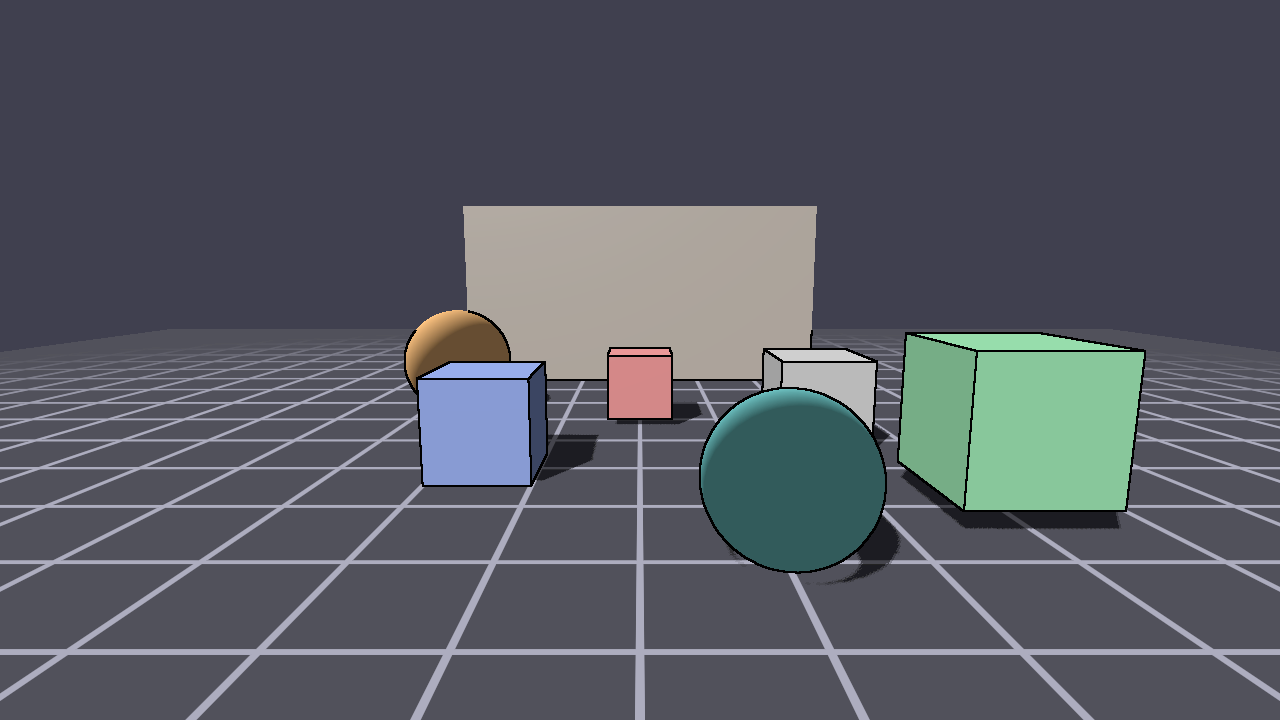
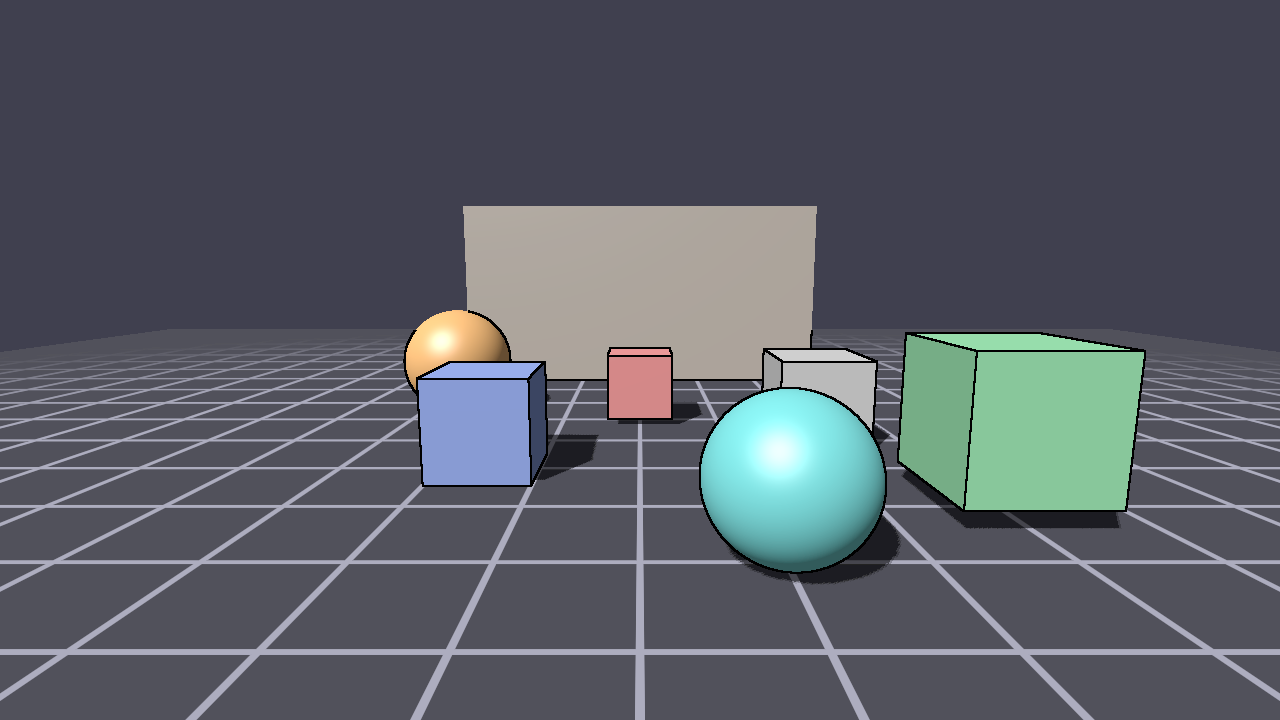
Fix Lesson 36 post-merge issues: screenshot, diagram, What's next (#195)
- Recapture screenshot after sphere shadow fix (no more holes)
- Move "wall" label above the wall in xray_depth_fail diagram to
  avoid overlapping other annotations
- Update "What's next" section: L37 is 3D Picking, not portal rendering

Files changed:
- lessons/gpu/36-edge-detection/README.md — fix What's next for L37
- lessons/gpu/36-edge-detection/assets/screenshot.png — fresh capture
- lessons/gpu/36-edge-detection/assets/xray_depth_fail.png — wall label fix
- scripts/forge_diagrams/gpu_diagrams.py — wall text y-position

Changed region(s): [[0.5312, 0.5194, 0.7188, 0.825], [0.3125, 0.4278, 0.4062, 0.55]]

diff --git a/scripts/forge_diagrams/gpu_diagrams.py b/scripts/forge_diagrams/gpu_diagrams.py
@@ -19450,7 +19450,7 @@ def diagram_xray_depth_fail():
         ax.add_patch(wall)
         ax.text(
             4.3,
-            0.5,
+            7.0,
             "wall",
             color=STYLE["text_dim"],
             fontsize=7,

diff --git a/lessons/gpu/36-edge-detection/README.md b/lessons/gpu/36-edge-detection/README.md
@@ -373,9 +373,10 @@ detection or stencil X-ray techniques are needed in your project.
 
 ## What's next
 
-Lesson 37 will continue the stencil buffer arc with portal rendering — using
-the stencil buffer to mask regions of the screen where an alternate scene is
-rendered, creating the illusion of looking through a window into another world.
+Lesson 37 introduces **3D picking** — identifying which object is under the
+mouse cursor. It renders each object with a unique color ID to an offscreen
+target, reads back the pixel under the mouse with `SDL_DownloadFromGPUTexture`,
+and highlights the selected object with a stencil outline from Lesson 34.
 
 ## Exercises
 
